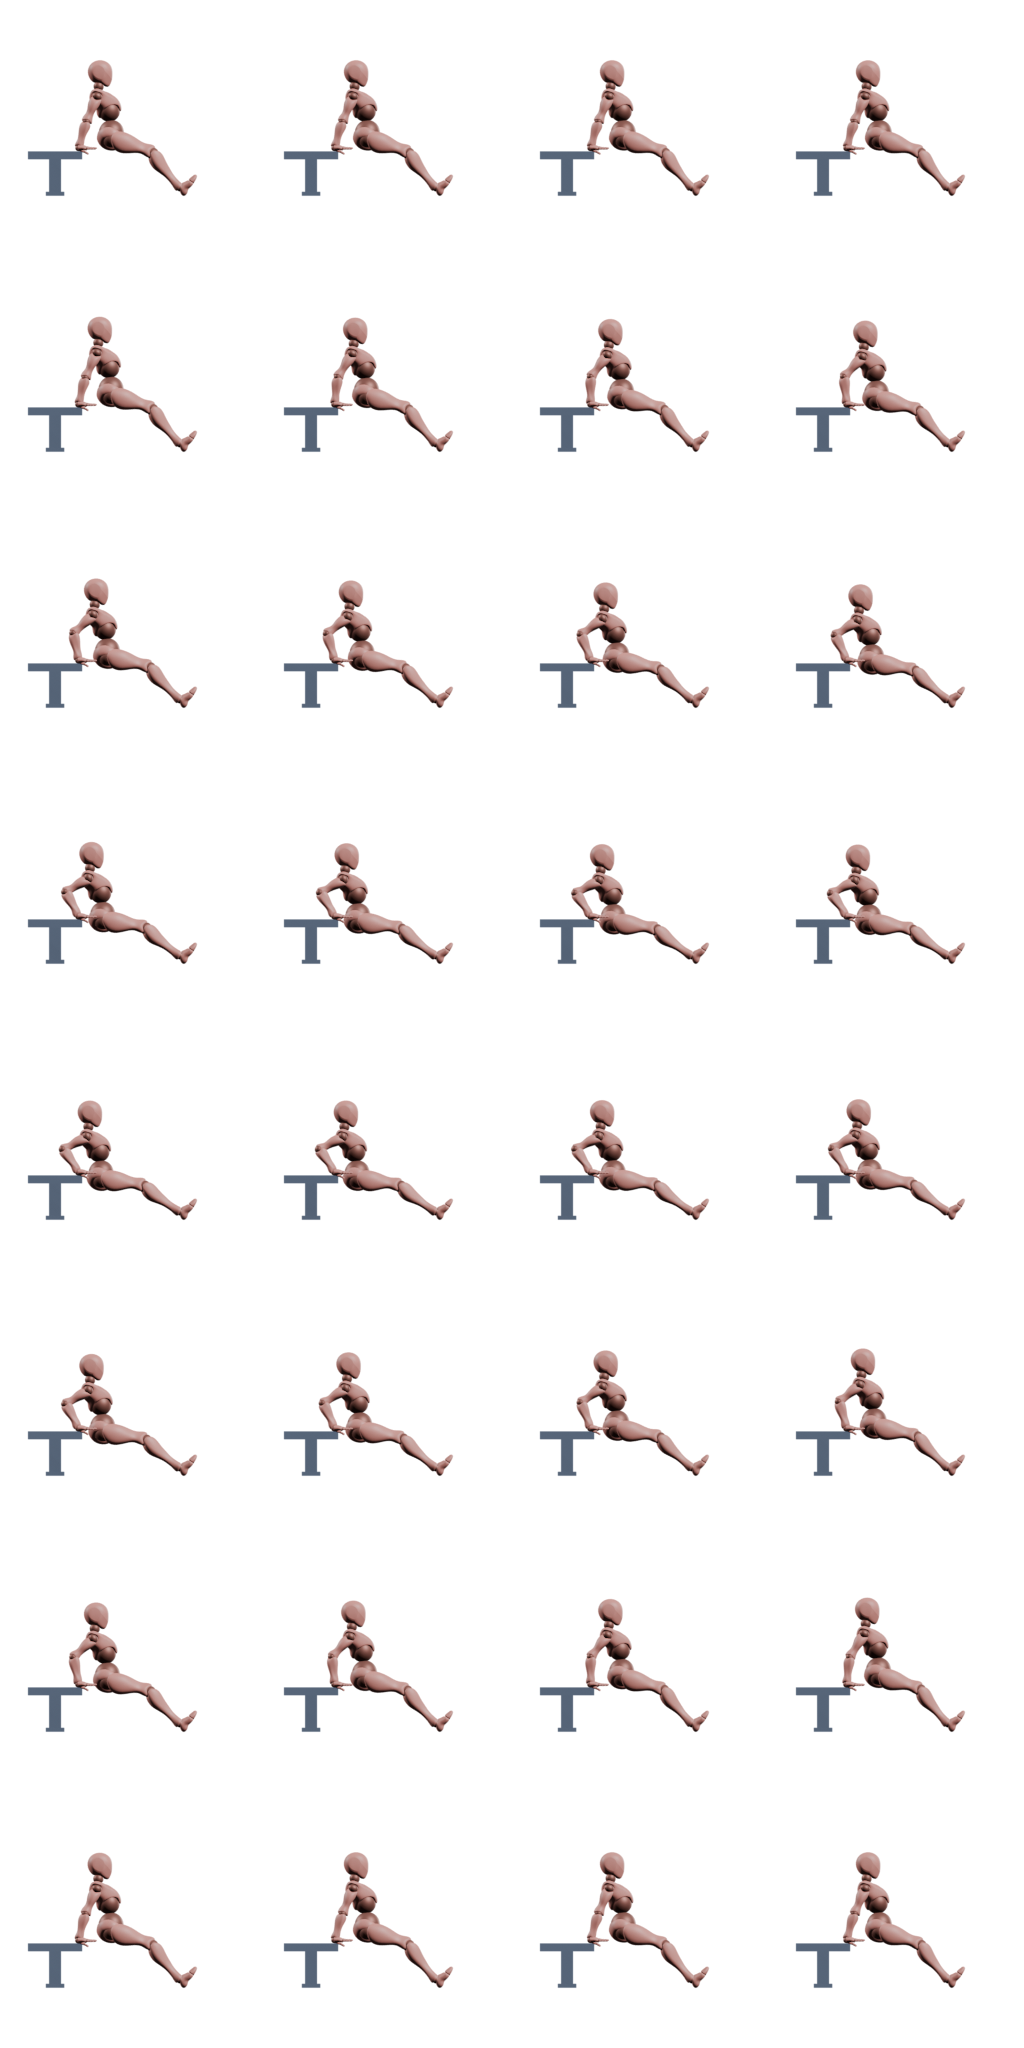
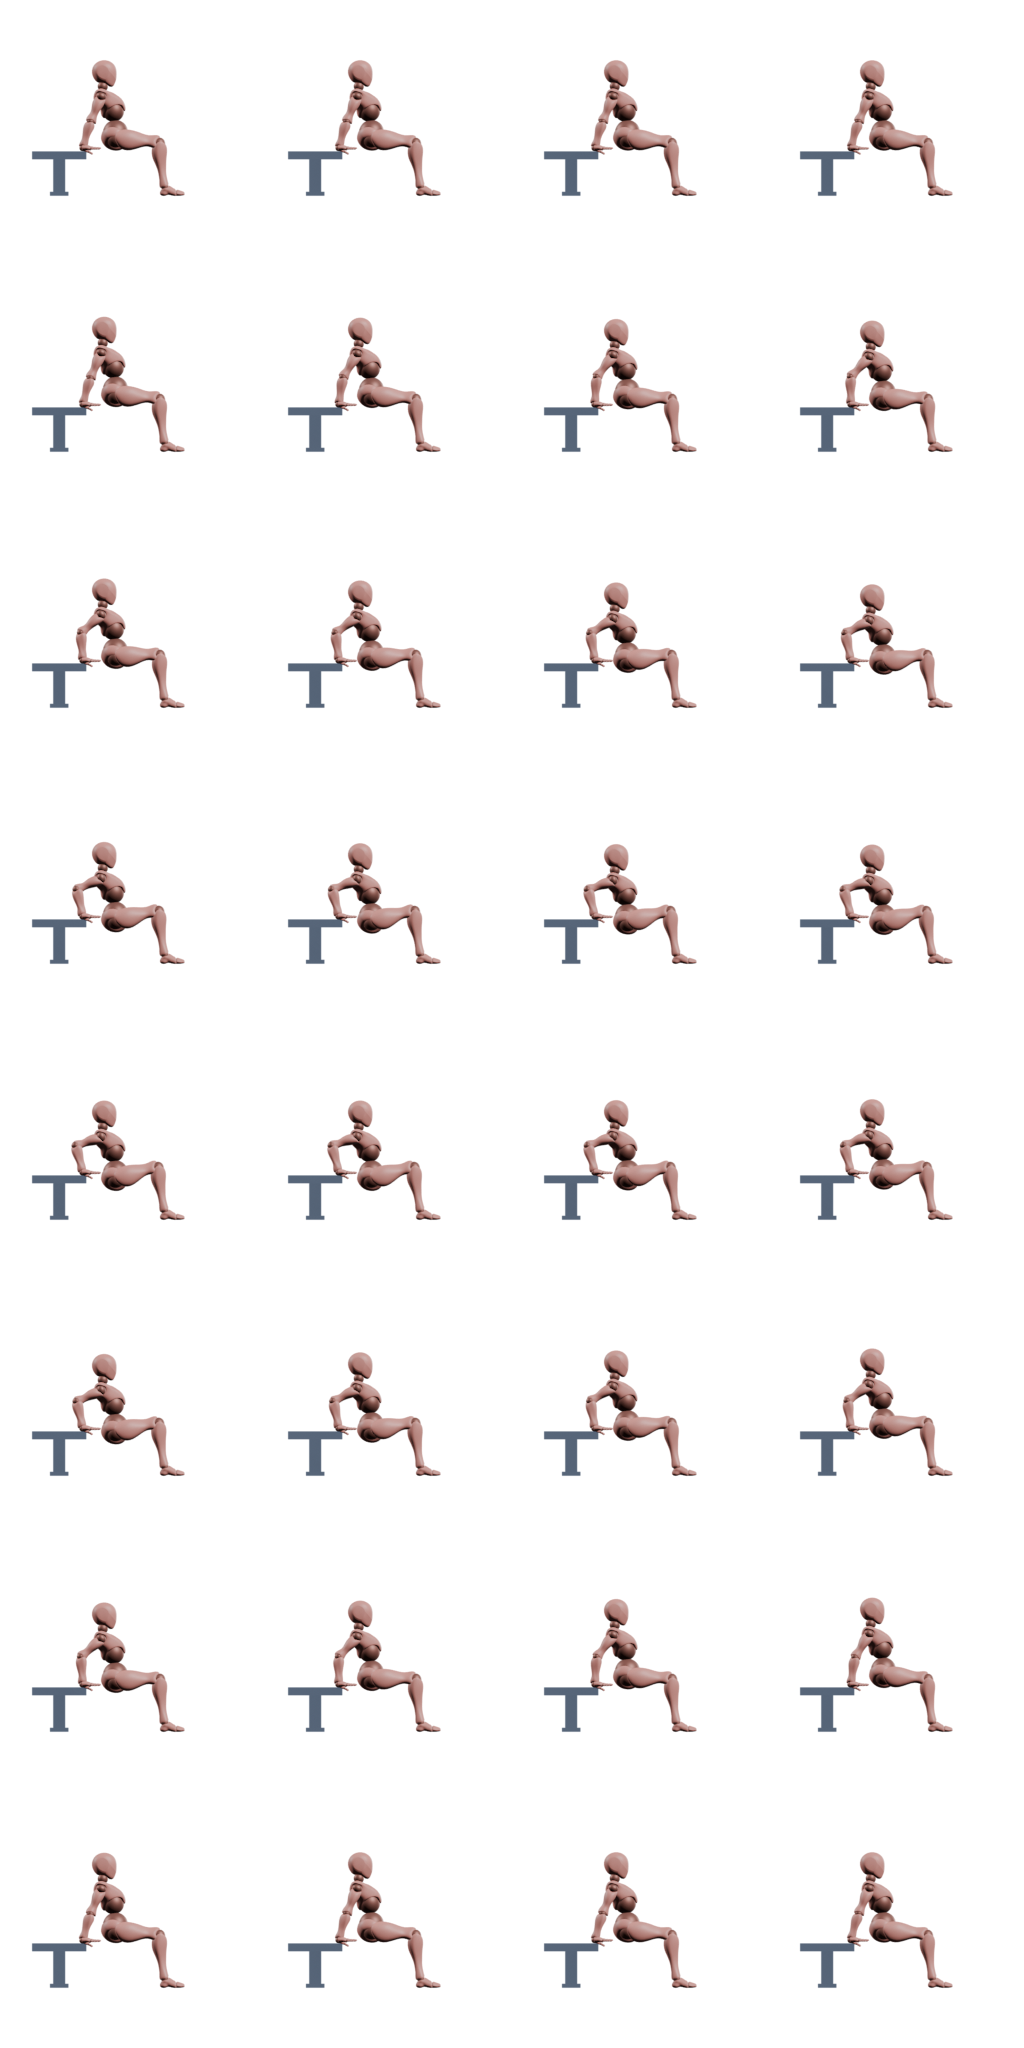
Dips : trois variantes, parce que les trois se voient
Les trois exercices du catalogue partageaient une planche ; ils ne se
ressemblent pas assez pour ça.

## Ce qui les sépare, et c'est mesurable

**Sur chaise, genoux pliés.** C'est la seule où la jambe ne contraint
rien : le genou est libre de se plier davantage à la descente — de 105
à 129° mesurés — si bien que le bassin descend droit. Chevilles à
cinquante centimètres devant lui, pieds à plat.

**Jambes tendues.** Talon planté et genou tendu, la hanche suit un arc
autour de la cheville et **recule de dix centimètres en descendant**.
La consigne « rester près du banc » n'est pas décrite ici, elle est
obtenue — et c'est aussi pourquoi il a fallu avancer le corps de
vingt-quatre centimètres, faute de quoi les fessiers entraient dans le
banc au point bas.

**Entre deux chaises.** Les mains passent de **derrière** à **à
côté**, trente-deux centimètres de l'axe. Le bras descend alors à la
verticale au lieu de partir en arrière, et le tronc se redresse : douze
degrés au lieu de vingt-six. C'est la mécanique des barres parallèles.
Elle se rend de trois-quarts, parce que de profil les deux chaises se
superposent au corps.

Les jambes y restent tendues devant, talons au sol, et ce n'est pas une
simplification : une assise de quarante-cinq centimètres ne laisse pas
un corps suspendu pendre ses jambes sans toucher le sol. C'est la vraie
contrainte de l'exercice à la maison.

## Le banc devient multiple

`banc` accepte une **liste** en plus d'un dictionnaire, et chaque
[…]

diff --git a/mobile/src/donnees/gestes.ts b/mobile/src/donnees/gestes.ts
@@ -53,7 +53,7 @@ export const GESTE_PAR_EXERCICE: Record<string, string> = {
   "Pompes claquées": "pompe",
   "Pompes sur une main": "pompe",
   "Pompes prise large": "pompe",
-  "Dips entre deux chaises": "dips",
+  "Dips entre deux chaises": "dips-deux-chaises",
   "Développé couché haltères au sol": "developpe-couche",
   "Développé couché haltères": "developpe-couche",
   "Développé couché barre": "developpe-couche",
@@ -120,7 +120,7 @@ export const GESTE_PAR_EXERCICE: Record<string, string> = {
   "Pompes diamant": "pompe",
   "Pompes diamant déclinées": "pompe",
   "Dips sur chaise": "dips",
-  "Dips sur chaise jambes tendues": "dips",
+  "Dips sur chaise jambes tendues": "dips-jambes-tendues",
   "Extensions triceps au sol": "extension-triceps-sol",
   "Curl à la serviette en auto-résistance": "curl",
   "Tractions supination prise serrée": "traction-supination-serree",

diff --git a/mobile/src/donnees/planches.ts b/mobile/src/donnees/planches.ts
@@ -500,7 +500,22 @@ export const PLANCHES: Record<string, Planche> = {
     source: require("../../assets/gestes/dips.png"),
     images: 32,
     colonnes: 4,
+    duree: 2400,
+  },
+  "dips-jambes-tendues": {
+    source: require("../../assets/gestes/dips-jambes-tendues.png"),
+    images: 32,
+    colonnes: 4,
     duree: 2600,
+  },
+  // Mains **à côté** du corps et non derrière : c'est la mécanique des barres
+  // parallèles, et elle ne se lit pas de profil — les deux chaises s'y
+  // superposent au corps. D'où le trois-quarts.
+  "dips-deux-chaises": {
+    source: require("../../assets/gestes/dips-deux-chaises.png"),
+    images: 32,
+    colonnes: 4,
+    duree: 2500,
   },
 };
 /* eslint-enable @typescript-eslint/no-require-imports */

diff --git a/scripts/gestes_generes.py b/scripts/gestes_generes.py
@@ -1996,8 +1996,12 @@ GESTES = {
         ],
     },
 
-    # Dips sur chaise. Mains sur l'arête d'un banc derrière soi, bassin devant,
-    # jambes tendues talons au sol : on descend en pliant les coudes.
+    # Dips sur chaise, **jambes tendues**. Mains sur l'arête d'un banc derrière
+    # soi, bassin devant, talons au sol : on descend en pliant les coudes.
+    #
+    # La variante la plus dure des trois, et la seule où la jambe contraint la
+    # trajectoire : talon planté et genou tendu, la hanche suit un arc autour
+    # de la cheville et **recule de dix centimètres en descendant**.
     #
     # ## Les critères
     #
@@ -2034,7 +2038,7 @@ GESTES = {
     # suit un arc autour de la cheville. Plus le bassin descend, plus il se
     # rapproche du banc — ce qui est exactement pourquoi les descriptions
     # disent de rester près du banc. Le geste ne le décrit pas, il l'obtient.
-    "dips": {
+    "dips-jambes-tendues": {
         "vue": "profil",
         "duree": 2600,
         "assise": ((+0.00, +0.00, +1.00), (+0.00, -1.00, +0.00)),
@@ -2084,6 +2088,135 @@ GESTES = {
                 _os("RightHand"): APlat((0, -1, 0), paume=(0, 0, -1)),
                 _os("LeftUpLeg"): Appui((+0.10, -0.936, 0.079), (0, -0.99, +0.14)),
                 _os("RightUpLeg"): Appui((-0.10, -0.936, 0.079), (0, -0.99, +0.14)),
+                _os("LeftFoot"): (0, -0.95, +0.31),
+                _os("RightFoot"): (0, -0.95, +0.31),
+            }),
+        ],
+    },
+
+    # Dips sur chaise, genoux pliés. La version de base : pieds à plat au sol,
+    # ramenés sous les genoux.
+    #
+    # C'est la seule des trois où la jambe **ne contraint rien**. Le genou est
+    # libre de se plier davantage à la descente — de 88° à 64° mesurés —, si
+    # bien que le bassin descend droit au lieu de reculer. D'où une hanche qui
+    # reste à la même profondeur aux deux clés, là où la version jambes tendues
+    # doit reculer de dix centimètres.
+    #
+    # Tout le reste est commun aux trois : arête à 0,45 m, main trois
+    # centimètres plus haut, descente de seize centimètres et demi imposée par
+    # le coude à angle droit.
+    "dips": {
+        "vue": "profil",
+        "duree": 2400,
+        "assise": ((+0.00, +0.00, +1.00), (+0.00, -1.00, +0.00)),
+        "ancrage": False,
+        "hauteur": 0.642,
+        "banc": {"hauteur": 0.45, "bord": 0.06, "longueur": 0.55},
+        "bassin": [(0, -0.240, 0.00), (0, -0.240, -0.166)],
+        "pauses": [0.16, 0.04],
+        "cles": [
+            _pose({
+                _os("Spine"): (0, +0.438, +0.899),
+                _os("Spine1"): (0, +0.438, +0.899),
+                _os("Spine2"): (0, +0.438, +0.899),
+                _os("Neck"): (0, +0.20, +0.98),
+                _os("Head"): (0, +0.10, +0.99),
+                _os("LeftArm"): Appui((+0.20, +0.10, 0.48), (0, +1.00, 0)),
+                _os("RightArm"): Appui((-0.20, +0.10, 0.48), (0, +1.00, 0)),
+                _os("LeftHand"): APlat((0, -1, 0), paume=(0, 0, -1)),
+                _os("RightHand"): APlat((0, -1, 0), paume=(0, 0, -1)),
+                # Pieds à plat, chevilles à cinquante centimètres devant le
+                # bassin : le genou tombe alors à 88°, ce que montrent les
+                # photos de la version facile.
+                _os("LeftUpLeg"): Appui((+0.10, -0.739, 0.087), (0, -0.99, +0.14)),
+                _os("RightUpLeg"): Appui((-0.10, -0.739, 0.087), (0, -0.99, +0.14)),
+                _os("LeftFoot"): (0, -0.78, -0.63),
+                _os("RightFoot"): (0, -0.78, -0.63),
+            }),
+            _pose({
+                _os("Spine"): (0, +0.438, +0.899),
+                _os("Spine1"): (0, +0.438, +0.899),
+                _os("Spine2"): (0, +0.438, +0.899),
+                _os("Neck"): (0, +0.20, +0.98),
+                _os("Head"): (0, +0.10, +0.99),
+                _os("LeftArm"): Appui((+0.20, +0.10, 0.48), (0, +1.00, 0)),
+                _os("RightArm"): Appui((-0.20, +0.10, 0.48), (0, +1.00, 0)),
+                _os("LeftHand"): APlat((0, -1, 0), paume=(0, 0, -1)),
+                _os("RightHand"): APlat((0, -1, 0), paume=(0, 0, -1)),
+                _os("LeftUpLeg"): Appui((+0.10, -0.739, 0.087), (0, -0.99, +0.14)),
+                _os("RightUpLeg"): Appui((-0.10, -0.739, 0.087), (0, -0.99, +0.14)),
+                _os("LeftFoot"): (0, -0.78, -0.63),
+                _os("RightFoot"): (0, -0.78, -0.63),
+            }),
+        ],
+    },
+
+    # Dips entre deux chaises. Une chaise de chaque côté, mains sur les
+    # assises, corps suspendu entre les deux.
+    #
+    # ## Ce qui la distingue des deux autres
+    #
+    # Les mains ne sont plus **derrière** mais **à côté**, à trente-deux
+    # centimètres de l'axe. Le bras descend donc à la verticale au lieu de
+    # partir en arrière, et le tronc se redresse : douze degrés au lieu de
+    # vingt-six. C'est la mécanique des barres parallèles, pas celle du banc,
+    # et cela se voit au premier coup d'œil — c'est bien pourquoi elle méritait
+    # sa propre planche plutôt que de partager celle des dips sur chaise.
+    #
+    # Les jambes restent tendues devant, talons au sol : les assises ne font
+    # que quarante-cinq centimètres, et à cette hauteur un corps suspendu ne
+    # peut pas laisser pendre ses jambes sans toucher le sol. C'est la vraie
+    # contrainte de l'exercice à la maison, et non une simplification.
+    "dips-deux-chaises": {
+        "vue": "trois-quarts",
+        "duree": 2500,
+        "assise": ((+0.00, +0.00, +1.00), (+0.00, -1.00, +0.00)),
+        "ancrage": False,
+        "hauteur": 0.626,
+        # Deux chaises, une de chaque côté, plus étroites qu'un banc.
+        "banc": [
+            {"hauteur": 0.45, "bord": -0.32, "longueur": 0.50, "x": +0.38,
+             "largeur": 0.30},
+            {"hauteur": 0.45, "bord": -0.32, "longueur": 0.50, "x": -0.38,
+             "largeur": 0.30},
+            # Trente-huit centimètres d'axe, pour trente de large : le bord
+            # intérieur tombe à 0,23 et la cuisse s'arrête à 0,19. Quatre
+            # centimètres de jeu. À trente-quatre, l'assise et la cuisse se
+            # touchaient.
+        ],
+        "bassin": [(0, -0.100, 0.00), (0, +0.007, -0.173)],
+        "pauses": [0.16, 0.04],
+        "cles": [
+            _pose({
+                _os("Spine"): (0, +0.208, +0.978),
+                _os("Spine1"): (0, +0.208, +0.978),
+                _os("Spine2"): (0, +0.208, +0.978),
+                _os("Neck"): (0, +0.10, +0.99),
+                _os("Head"): (0, +0.05, +1.00),
+                # Mains sur les assises, de part et d'autre du bassin. Le coude
+                # part droit vers l'arrière, comme sur des barres parallèles.
+                _os("LeftArm"): Appui((+0.32, -0.10, 0.48), (0, +1.00, 0)),
+                _os("RightArm"): Appui((-0.32, -0.10, 0.48), (0, +1.00, 0)),
+                _os("LeftHand"): APlat((0, -1, 0), paume=(0, 0, -1)),
+                _os("RightHand"): APlat((0, -1, 0), paume=(0, 0, -1)),
+                _os("LeftUpLeg"): Appui((+0.10, -0.799, 0.079), (0, -0.99, +0.14)),
+                _os("RightUpLeg"): Appui((-0.10, -0.799, 0.079), (0, -0.99, +0.14)),
+                _os("LeftFoot"): (0, -0.95, +0.31),
+                _os("RightFoot"): (0, -0.95, +0.31),
+            }),
+            _pose({
+                _os("Spine"): (0, +0.208, +0.978),
+                _os("Spine1"): (0, +0.208, +0.978),
+                _os("Spine2"): (0, +0.208, +0.978),
+                _os("Neck"): (0, +0.10, +0.99),
+                _os("Head"): (0, +0.05, +1.00),
+                _os("LeftArm"): Appui((+0.32, -0.10, 0.48), (0, +1.00, 0)),
+                _os("RightArm"): Appui((-0.32, -0.10, 0.48), (0, +1.00, 0)),
+                _os("LeftHand"): APlat((0, -1, 0), paume=(0, 0, -1)),
+                _os("RightHand"): APlat((0, -1, 0), paume=(0, 0, -1)),
+                _os("LeftUpLeg"): Appui((+0.10, -0.799, 0.079), (0, -0.99, +0.14)),
+                _os("RightUpLeg"): Appui((-0.10, -0.799, 0.079), (0, -0.99, +0.14)),
                 _os("LeftFoot"): (0, -0.95, +0.31),
                 _os("RightFoot"): (0, -0.95, +0.31),
             }),

diff --git a/scripts/rendre-geste.py b/scripts/rendre-geste.py
@@ -510,12 +510,19 @@ def poser_le_banc(banc, mini, maxi):
     # sol, si bien que son centre tombe vers les pieds et que la tête finit
     # dans le vide, au bout du banc. Un banc dont la tête dépasse donne un
     # corps qui glisse, ce qui est exactement la faute qu'on corrige ailleurs.
+    # Une **liste** en pose plusieurs, ce que demandent les dips entre deux
+    # chaises : un meuble de chaque côté du corps. `x` dit alors où, et il n'a
+    # pas de valeur par défaut utile — un banc de dips est à droite ou à
+    # gauche, jamais au milieu.
+    if isinstance(banc, (list, tuple)):
+        return [poser_le_banc(un, mini, maxi) for un in banc]
+
     if isinstance(banc, dict):
         hauteur = banc["hauteur"]
         longueur = banc.get("longueur", 0.55)
         milieu_y = banc["bord"] + longueur / 2
-        centre_x = 0.0
-        return _dessiner_le_banc(centre_x, milieu_y, longueur, hauteur)
+        return _dessiner_le_banc(banc.get("x", 0.0), milieu_y, longueur, hauteur,
+                                 banc.get("largeur", 0.34))
 
     hauteur = banc
     tete, bassin = None, None
@@ -541,7 +548,7 @@ def poser_le_banc(banc, mini, maxi):
     return _dessiner_le_banc(centre_x, milieu_y, longueur, hauteur)
 
 
-def _dessiner_le_banc(centre_x, milieu_y, longueur, hauteur):
+def _dessiner_le_banc(centre_x, milieu_y, longueur, hauteur, largeur=0.34):
     """Le meuble lui-même, une fois sa place connue."""
     epaisseur = 0.08
     bpy.ops.mesh.primitive_cube_add(
@@ -557,7 +564,7 @@ def _dessiner_le_banc(centre_x, milieu_y, longueur, hauteur):
     # personnage tombaient **dedans** au lieu de le border. La largeur d'un banc
     # de musculation ne dépend pas de ce qu'on y fait : elle fait la largeur du
     # dos, un peu plus de trente centimètres.
-    banc.scale = (0.34, longueur, epaisseur)
+    banc.scale = (largeur, longueur, epaisseur)
 
     # Un **bleu sombre**, et non le gris de la première version. Le gris moyen
     # avait la même valeur que la chair du mannequin : ses deux pieds verticaux
